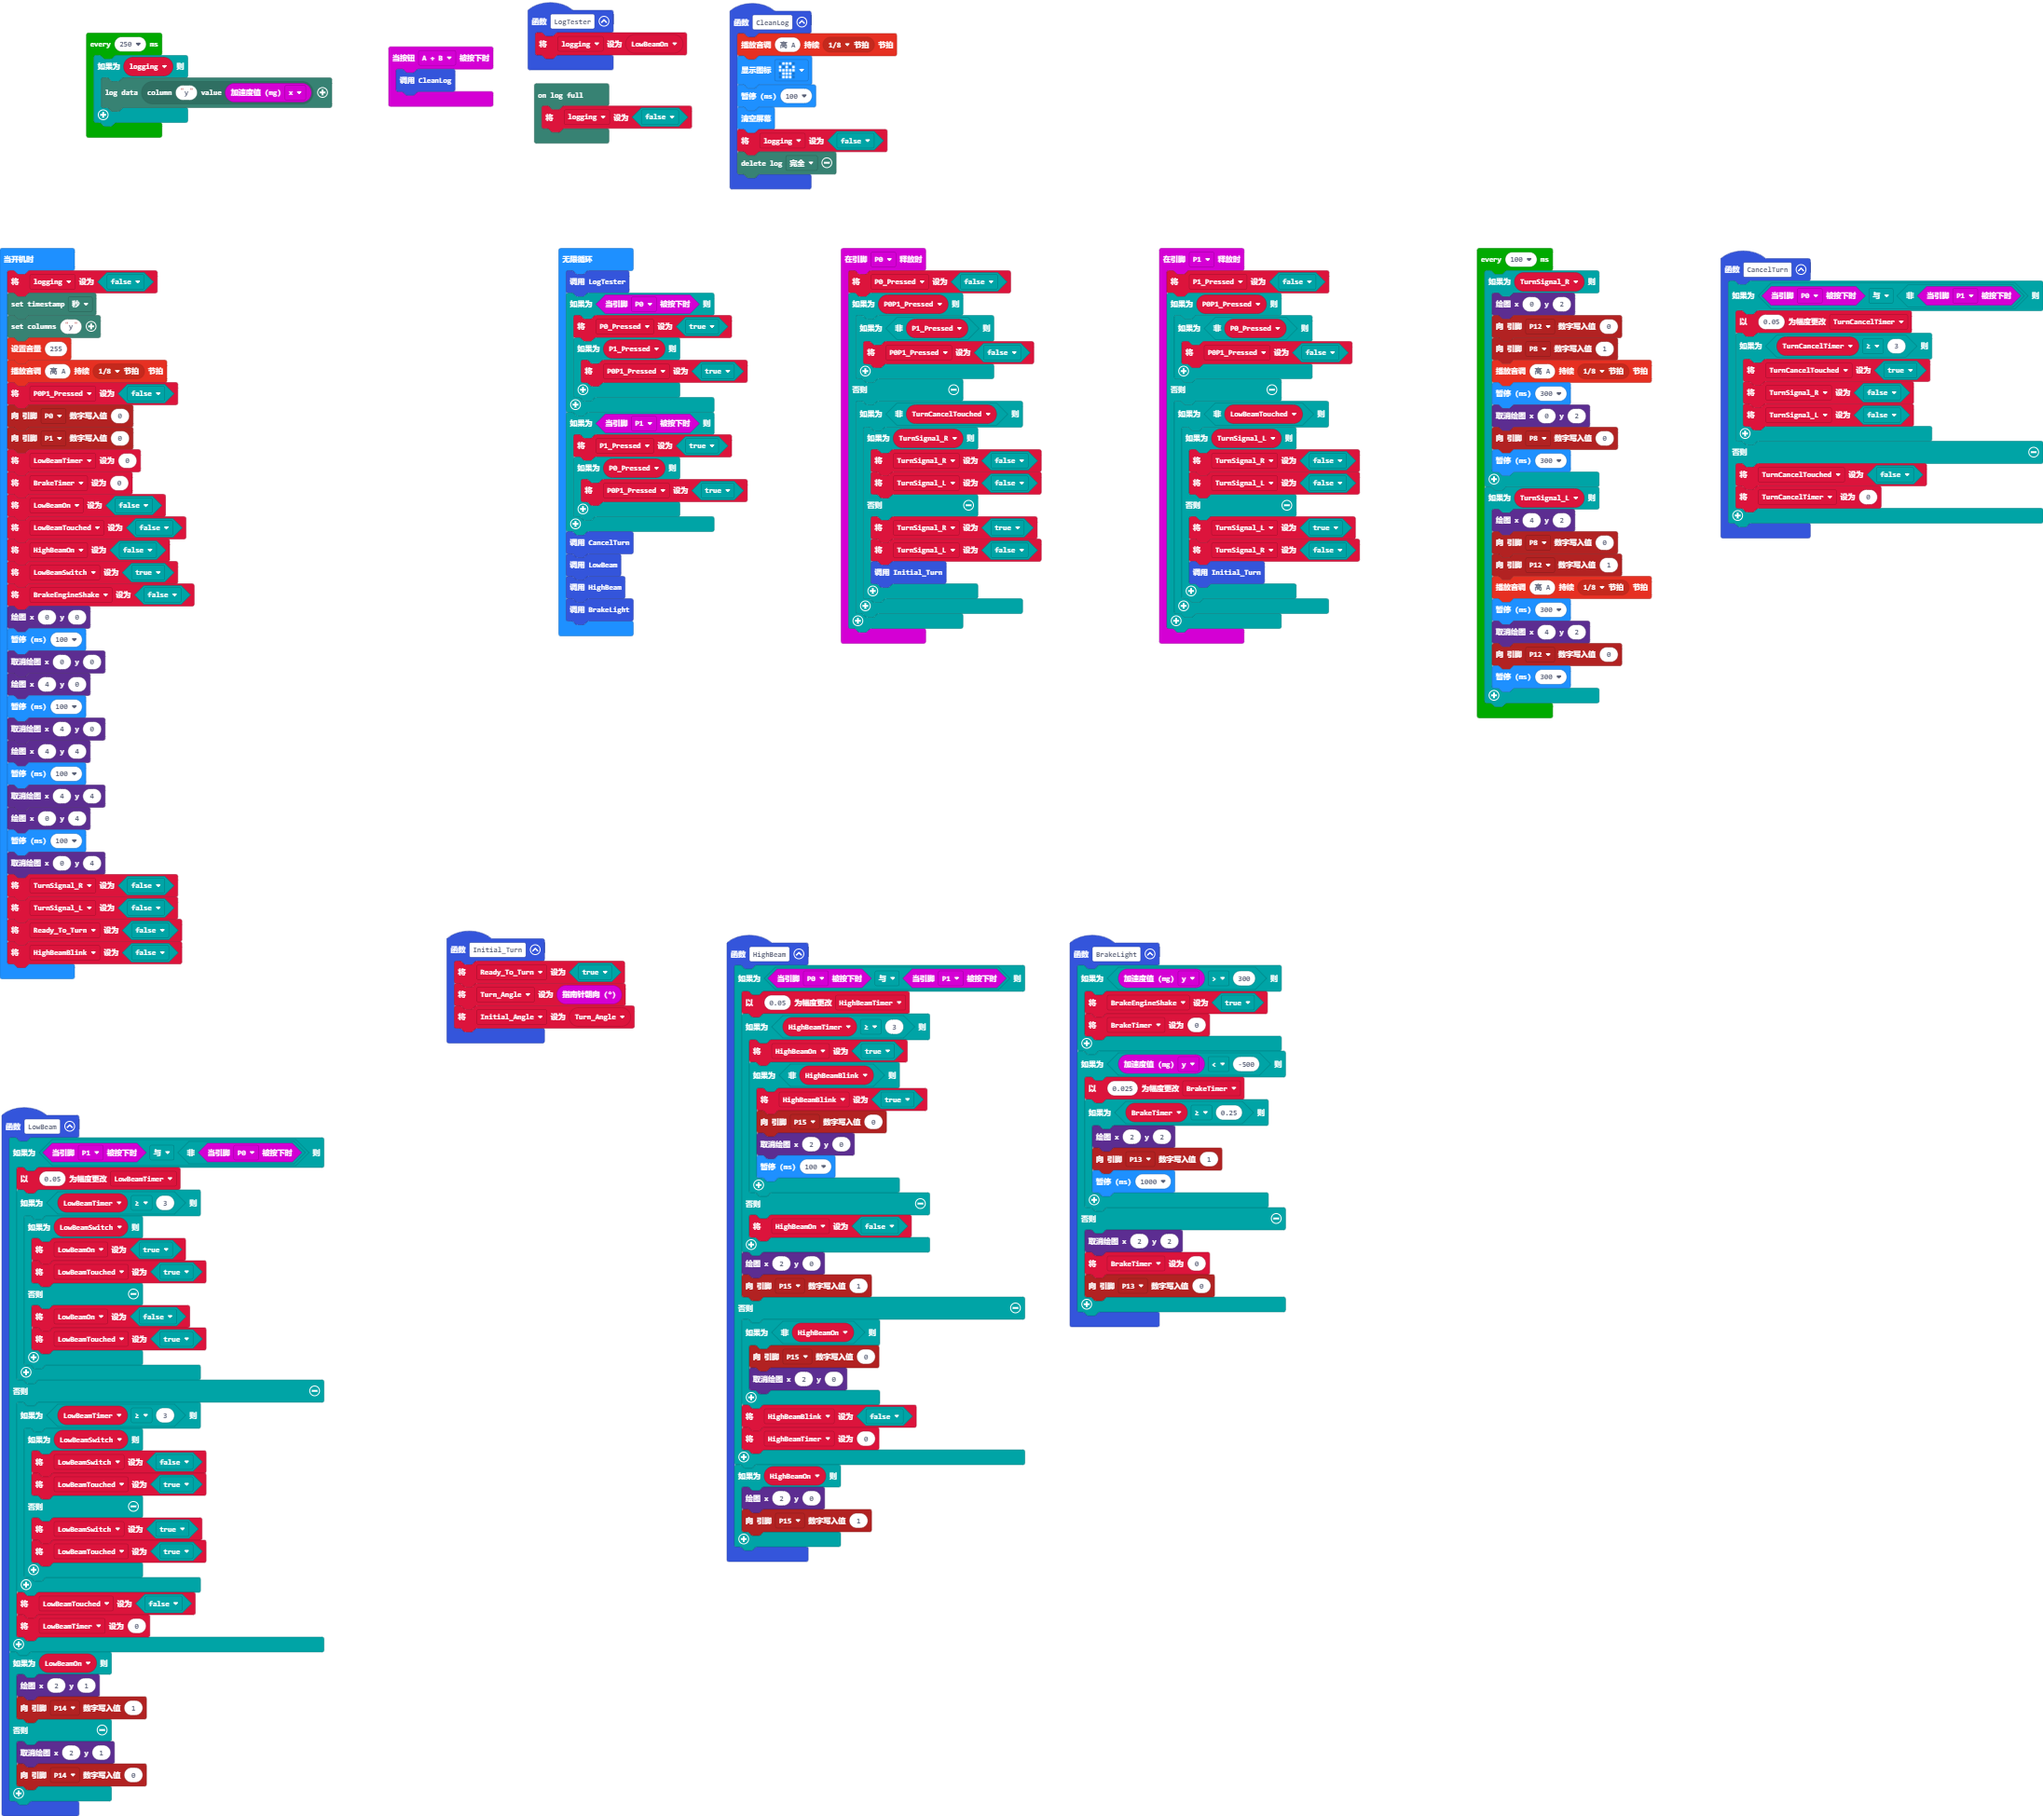
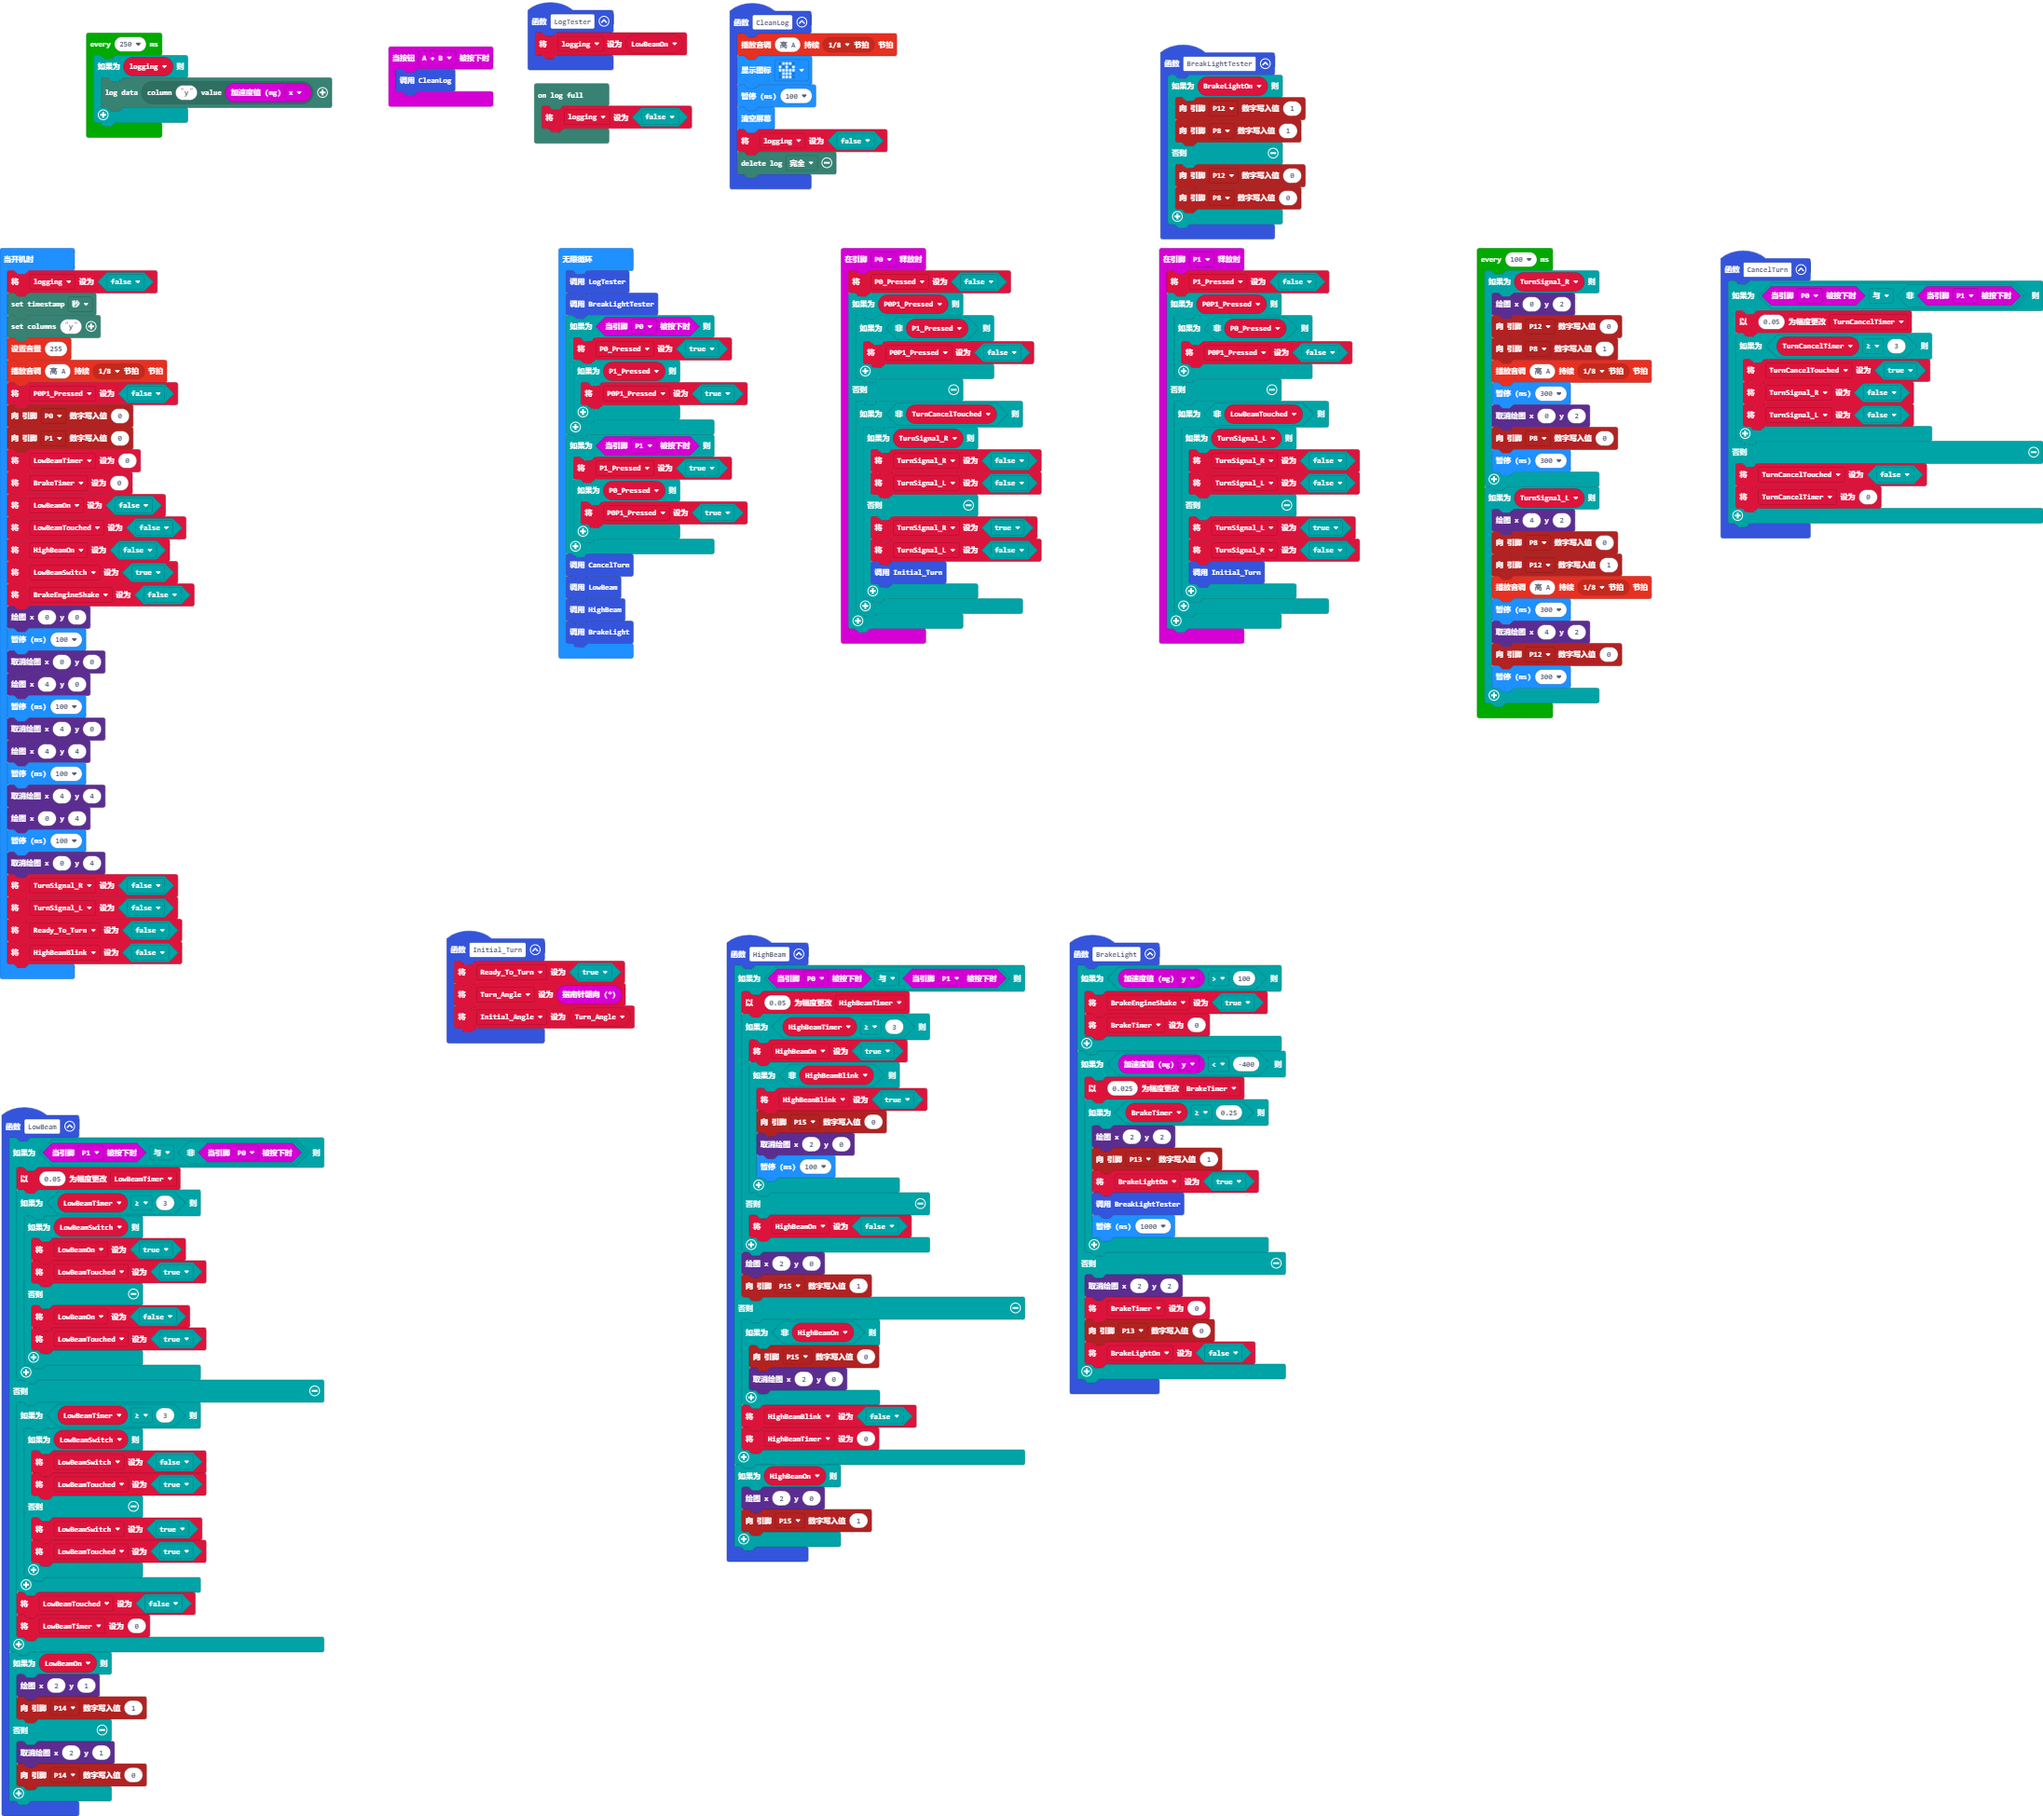
link turn signle to breaklight, change brake light to 100 to -400

Changed region(s): [[0.2792, 0.1539, 0.3723, 0.3694], [0.4964, 0.6465, 0.6515, 0.7696], [0.5584, 0.0, 0.6515, 0.1539]]

diff --git a/main.ts b/main.ts
@@ -66,6 +66,15 @@ function LowBeam () {
 datalogger.onLogFull(function () {
     logging = false
 })
+function BreakLightTester () {
+    if (BrakeLightOn) {
+        pins.digitalWritePin(DigitalPin.P12, 1)
+        pins.digitalWritePin(DigitalPin.P8, 1)
+    } else {
+        pins.digitalWritePin(DigitalPin.P12, 0)
+        pins.digitalWritePin(DigitalPin.P8, 0)
+    }
+}
 function LogTester () {
     logging = LowBeamOn
 }
@@ -126,21 +135,24 @@ input.onPinReleased(TouchPin.P1, function () {
     }
 })
 function BrakeLight () {
-    if (input.acceleration(Dimension.Y) > 300) {
+    if (input.acceleration(Dimension.Y) > 100) {
         BrakeEngineShake = true
         BrakeTimer = 0
     }
-    if (input.acceleration(Dimension.Y) < -500) {
+    if (input.acceleration(Dimension.Y) < -400) {
         BrakeTimer += 0.025
         if (BrakeTimer >= 0.25) {
             led.plot(2, 2)
             pins.digitalWritePin(DigitalPin.P13, 1)
+            BrakeLightOn = true
+            BreakLightTester()
             basic.pause(1000)
         }
     } else {
         led.unplot(2, 2)
         BrakeTimer = 0
         pins.digitalWritePin(DigitalPin.P13, 0)
+        BrakeLightOn = false
     }
 }
 function CleanLog () {
@@ -154,6 +166,7 @@ function CleanLog () {
 let HighBeamTimer = 0
 let Initial_Angle = 0
 let Turn_Angle = 0
+let BrakeLightOn = false
 let TurnCancelTimer = 0
 let TurnCancelTouched = false
 let P1_Pressed = false
@@ -204,6 +217,7 @@ Ready_To_Turn = false
 HighBeamBlink = false
 basic.forever(function () {
     LogTester()
+    BreakLightTester()
     if (input.pinIsPressed(TouchPin.P0)) {
         P0_Pressed = true
         if (P1_Pressed) {
